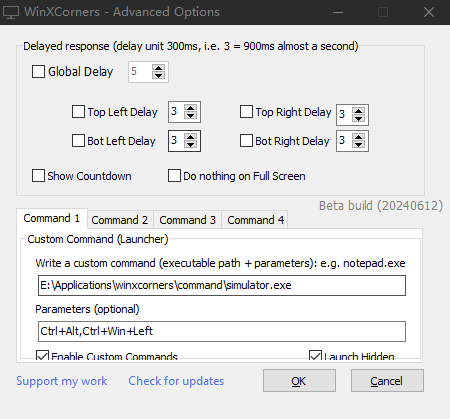
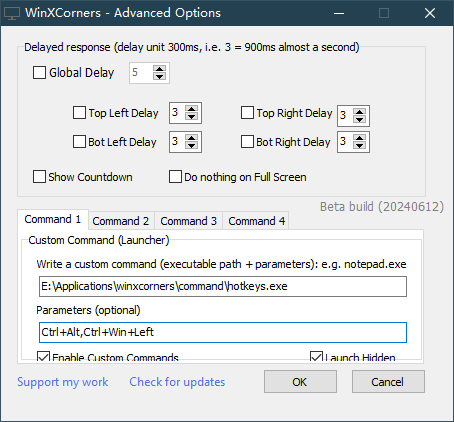
support multimedia keys

diff --git a/hotkeys.cpp b/hotkeys.cpp
@@ -87,6 +87,15 @@ std::map<std::string, WORD> keyMap = {
     {"RBrack", VK_OEM_6},        // ]
     {"Quote", VK_OEM_7},         // '
 
+    // Multimedia keys
+    {"MediaNext", VK_MEDIA_NEXT_TRACK},  // Next track
+    {"MediaPrev", VK_MEDIA_PREV_TRACK},  // Previous track
+    {"MediaStop", VK_MEDIA_STOP},        // Stop
+    {"MediaPlayPause", VK_MEDIA_PLAY_PAUSE},  // Play/Pause
+    {"VolumeMute", VK_VOLUME_MUTE},      // Mute
+    {"VolumeUp", VK_VOLUME_UP},          // Increase volume
+    {"VolumeDown", VK_VOLUME_DOWN},      // Decrease volume
+
     // Other special keys
     {"PrtSc", VK_SNAPSHOT},
     {"Scroll", VK_SCROLL},

diff --git a/README.md b/README.md
@@ -1,4 +1,4 @@
-# Keyboard Simulator
+# Hotkeys
 
 Simulate keyboard keystrokes and support multiple sets of combined keys.
 
@@ -7,7 +7,7 @@ Simulate keyboard keystrokes and support multiple sets of combined keys.
 Basic usage:
 
 ```bash
-simulator.exe Ctrl+Alt,Ctrl+Win+Left
+hotkeys.exe Ctrl+Alt,Ctrl+Win+Left
 ```
 
 Used in winxcorners:
@@ -35,4 +35,5 @@ This table organizes the keys into categories to make it easier to identify thei
 | **Control Keys**     | `Esc`, `Tab`, `Caps`, `Space`, `Enter`, `Bksp`                                                               | Escape, Tab, Caps Lock, Space, Enter, Backspace       |
 | **Editing Keys**     | `Ins`, `Del`, `Home`, `End`, `PgUp`, `PgDn`                                                                  | Insert, Delete, Home, End, Page Up, Page Down         |
 | **Punctuation Keys** | `SColon`, `Plus`, `Comma`, `Minus`, `Dot`, `Slash`, `Tilde`, `LBrack`, `Bslash`, `RBrack`, `Quote` | Various punctuation marks like ; + , - . / ~ [ \ ] '  |
+| **Multimedia keys**  | `MediaNext`, `MediaPrev`, `MediaStop`, `MediaPlayPause`, `VolumeMute`, `VolumeUp`, `VolumeDown` | Multimedia keys  |
 | **Special Keys**     | `PrtSc`, `Scroll`, `Pause`, `Menu`                                                                               | Print Screen, Scroll Lock, Pause, Application Menu    |
